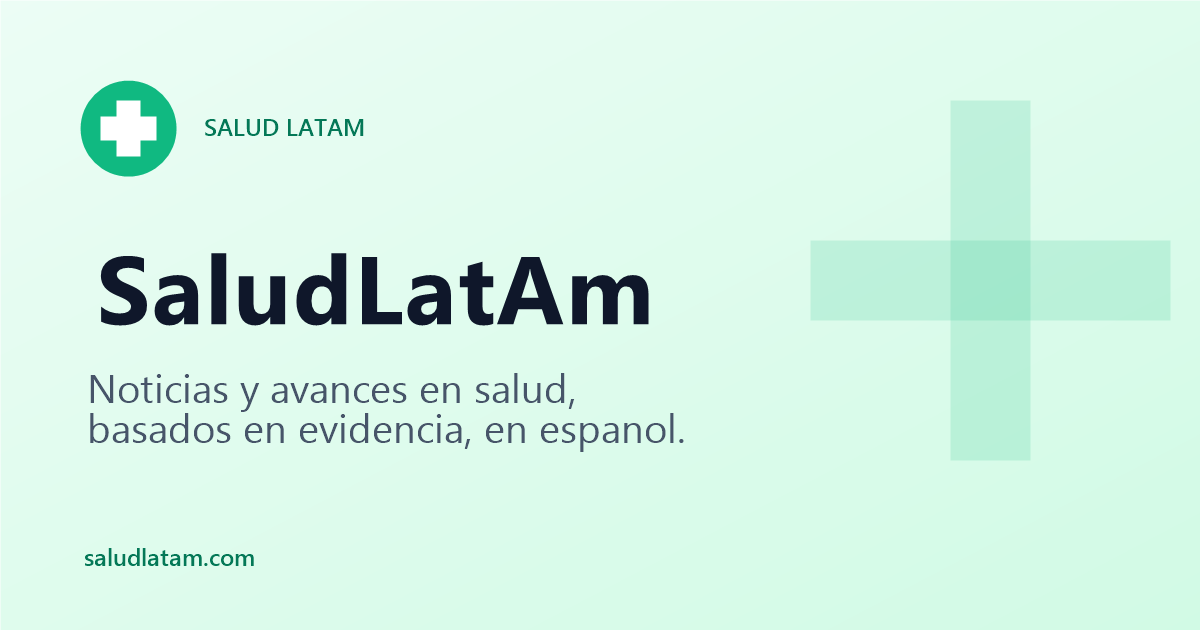
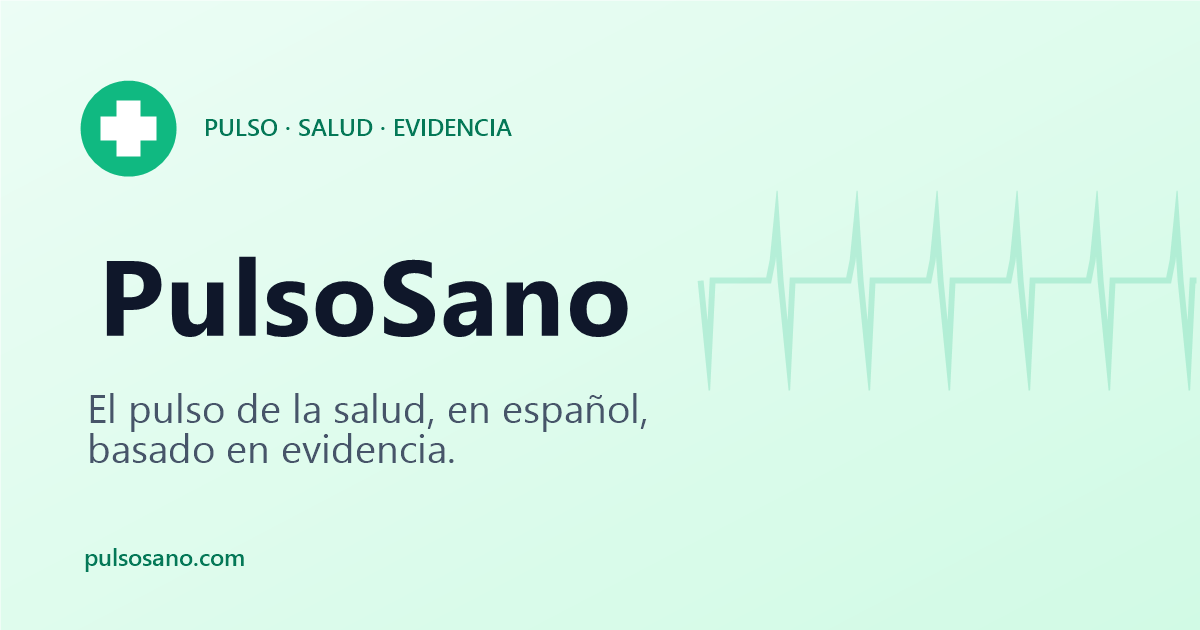
rebrand: SaludLatAm -> PulsoSano (dominio pulsosano.com)
Find/replace global del nombre y URL en:
- src/ (layouts, components, pages, content)
- scripts/ (aggregator.py, indexnow_submit.py)
- public/ (robots.txt, manifest.webmanifest)
- wrangler.jsonc, astro.config.mjs, .github/workflows/aggregate.yml
- CLAUDE.md, package.json, package-lock.json

Regenerado:
- og-default.png con nuevo brand
- package-lock.json (npm install fresh)

Brand: PulsoSano | Dominio: pulsosano.com (+pulsosano.org)
Tagline: 'El pulso de la salud, en español y con evidencia.'

diff --git a/src/pages/rss.xml.js b/src/pages/rss.xml.js
@@ -10,7 +10,7 @@ function escape(str) {
 }
 
 export async function GET(context) {
-  const SITE = (import.meta.env.SITE_URL || context.site?.toString() || 'https://saludlatam.com').replace(/\/$/, '');
+  const SITE = (import.meta.env.SITE_URL || context.site?.toString() || 'https://pulsosano.com').replace(/\/$/, '');
   const items = (await getCollection('noticias'))
     .sort((a, b) => new Date(b.data.fecha).getTime() - new Date(a.data.fecha).getTime())
     .slice(0, 50);
@@ -31,7 +31,7 @@ export async function GET(context) {
   const xml = `<?xml version="1.0" encoding="UTF-8"?>
 <rss version="2.0" xmlns:atom="http://www.w3.org/2005/Atom">
   <channel>
-    <title>SaludLatAm — Noticias y avances en salud</title>
+    <title>PulsoSano — Noticias y avances en salud</title>
     <link>${SITE}</link>
     <atom:link href="${SITE}/rss.xml" rel="self" type="application/rss+xml" />
     <description>Resúmenes en español de noticias médicas y avances científicos, citando la fuente original.</description>

diff --git a/src/pages/news-sitemap.xml.js b/src/pages/news-sitemap.xml.js
@@ -13,8 +13,8 @@ function escape(s) {
 const NEWS_WINDOW_MS = 2 * 24 * 60 * 60 * 1000;
 
 export async function GET(context) {
-  const SITE = (import.meta.env.SITE_URL || context.site?.toString() || 'https://saludlatam.com').replace(/\/$/, '');
-  const PUBLICATION_NAME = 'SaludLatAm';
+  const SITE = (import.meta.env.SITE_URL || context.site?.toString() || 'https://pulsosano.com').replace(/\/$/, '');
+  const PUBLICATION_NAME = 'PulsoSano';
   const PUBLICATION_LANG = 'es';
 
   const cutoff = Date.now() - NEWS_WINDOW_MS;

diff --git a/scripts/aggregator.py b/scripts/aggregator.py
@@ -1,7 +1,7 @@
 #!/usr/bin/env python3
 # -*- coding: utf-8 -*-
 """
-SaludLatAm — Agregador automático de noticias médicas.
+PulsoSano — Agregador automático de noticias médicas.
 
 - Lee feeds RSS definidos en sources.yml.
 - Filtra los ya procesados (dedupe por SHA256 del URL).
@@ -399,7 +399,7 @@ def run(args: argparse.Namespace) -> int:
     max_total = args.limit or int(cfg.get("max_noticias_por_run", 12))
     max_por_fuente = int(cfg.get("max_por_fuente", 2))
     model = cfg.get("modelo", "claude-haiku-4-5")
-    user_agent = cfg.get("user_agent", "Mozilla/5.0 SaludLatAm/1.0")
+    user_agent = cfg.get("user_agent", "Mozilla/5.0 PulsoSano/1.0")
 
     state = load_state()
     processed_hashes = set(state.get("processed_urls", []))
@@ -531,7 +531,7 @@ def run(args: argparse.Namespace) -> int:
 
 
 def main() -> int:
-    p = argparse.ArgumentParser(description="SaludLatAm — agregador de noticias médicas")
+    p = argparse.ArgumentParser(description="PulsoSano — agregador de noticias médicas")
     p.add_argument("--dry-run", action="store_true", help="No llama al modelo; solo muestra candidatos.")
     p.add_argument("--verbose", "-v", action="store_true", help="Logs detallados.")
     p.add_argument("--limit", type=int, default=0, help="Forzar máximo de noticias en esta corrida.")

diff --git a/scripts/indexnow_submit.py b/scripts/indexnow_submit.py
@@ -6,7 +6,7 @@ import requests
 import yaml
 
 ROOT = Path(__file__).resolve().parent.parent
-SITE = os.environ.get("SITE_URL", "https://saludlatam.com").rstrip("/")
+SITE = os.environ.get("SITE_URL", "https://pulsosano.com").rstrip("/")
 KEY_FILE = ROOT / "public" / "indexnow-key.txt"
 
 def collect_urls() -> list[str]:

diff --git a/src/content/noticias/bienvenida.md b/src/content/noticias/bienvenida.md
@@ -1,19 +1,19 @@
 ---
-titulo: "Bienvenido a SaludLatAm: divulgación médica basada en evidencia"
+titulo: "Bienvenido a PulsoSano: divulgación médica basada en evidencia"
 resumen: "Un agregador automático de noticias y avances en salud, reescritos en español neutro, citando siempre la fuente original."
-porQueImporta: "Latinoamérica tiene poca cobertura en español de la investigación médica internacional. SaludLatAm acerca esos hallazgos sin reemplazar al médico."
+porQueImporta: "Latinoamérica tiene poca cobertura en español de la investigación médica internacional. PulsoSano acerca esos hallazgos sin reemplazar al médico."
 categoria: "Salud Pública y Política"
 fuente:
-  nombre: "SaludLatAm"
-  url: "https://saludlatam.com/sobre"
+  nombre: "PulsoSano"
+  url: "https://pulsosano.com/sobre"
 fecha: 2026-05-18
 tags: ["bienvenida", "metodologia", "divulgacion"]
 autorIA: "editorial"
 ---
 
-## Qué es SaludLatAm
+## Qué es PulsoSano
 
-SaludLatAm es un proyecto editorial automatizado que reúne noticias y avances en salud
+PulsoSano es un proyecto editorial automatizado que reúne noticias y avances en salud
 provenientes de instituciones médicas reconocidas (NIH, OMS, Mayo Clinic, Cleveland Clinic,
 Harvard Health, Diario Médico, EFE Salud, entre otras) y las reescribe en español neutro
 para audiencias latinoamericanas.

diff --git a/CLAUDE.md b/CLAUDE.md
@@ -1,4 +1,4 @@
-# CLAUDE.md — SaludLatAm
+# CLAUDE.md — PulsoSano
 
 Sitio agregador automático de noticias y avances en salud, en español neutro,
 monetizado con Google AdSense. Nicho YMYL (Your Money Your Life).
@@ -10,7 +10,7 @@ monetizado con Google AdSense. Nicho YMYL (Your Money Your Life).
 - Modelo IA: **claude-haiku-4-5** con prompt caching (`cache_control: ephemeral`).
 - Hosting: **Cloudflare Workers Static Assets** (NO Pages, NO adapter).
 - CI/CD: **GitHub Actions**, cron `0 */2 * * *`.
-- Dominio sugerido: `saludlatam.com`.
+- Dominio sugerido: `pulsosano.com`.
 
 ## Comandos
 
@@ -26,7 +26,7 @@ py scripts/aggregator.py --limit 5
 1. **Wrangler 3 falla** en deploys solo-assets con "Missing entry-point".
    El workflow fuerza `wranglerVersion: "4"` en `cloudflare/wrangler-action@v3`.
 2. **`.env` con SITE_URL incorrecto** sobreescribe el build. Verificar tras cada
-   deploy: `curl https://saludlatam.com/ | grep canonical`.
+   deploy: `curl https://pulsosano.com/ | grep canonical`.
 3. **Cloudflare cache** tarda 2-5 minutos en propagar. Bustear con `?v=$(date +%s)`.
 4. **Astro `getStaticPaths`** corre en contexto aislado: declarar helpers DENTRO
    de la función, no en el frontmatter superior.
